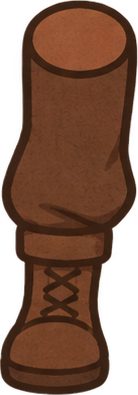
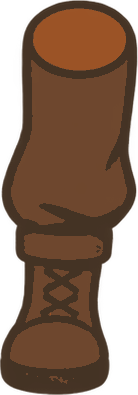
feat: add endless woodcut woodland, directional impacts and offline play

diff --git a/src/scene.ts b/src/scene.ts
@@ -1,6 +1,8 @@
 import Phaser from 'phaser';
-import {Combat,WORLD,type EnemyKind,type Effect} from './combat';
+import {Combat,type EnemyKind,type Effect} from './combat';
 
+import { Woodland } from './terrain';
+import { art } from './art';
 import {WitchRig} from './rig';
 import type {AudioDirector} from './audio';
 
@@ -10,25 +12,27 @@ type VisualEffect=Effect&{life:number;max:number};
 export interface SceneHooks {tick:(sim:Combat,fps:number,slow:number)=>void;upgrade:()=>void;end:()=>void;pause:()=>void;ready:()=>void;error:(message:string)=>void;audio:AudioDirector;lowQuality:()=>boolean}
 export class ForestScene extends Phaser.Scene {
   sim?:Combat;running=false;private hooks:SceneHooks;
-  private worldInk!:Phaser.GameObjects.Graphics;private fxInk!:Phaser.GameObjects.Graphics;
+  private woods!:Woodland;private worldInk!:Phaser.GameObjects.Graphics;private fxInk!:Phaser.GameObjects.Graphics;
   private rig?:WitchRig;private sprites=new Map<number,Phaser.GameObjects.Image>();private spritePool:Phaser.GameObjects.Image[]=[];
   private texts:Phaser.GameObjects.Text[]=[];private textCursor=0;private effects:VisualEffect[]=[];
   private keys?:Record<string,Phaser.Input.Keyboard.Key>;private accumulator=0;private uiClock=0;private slowFrames=0;private frames=0;private frameTime=0;private lastPaint=0;
   private stick?:{id:number;x:number;y:number};private movement={x:0,y:0};private stickInk!:Phaser.GameObjects.Graphics;
   constructor(hooks:SceneHooks){super('forest');this.hooks=hooks;}
   preload(){
-    this.load.image('arena','art/arena.webp');this.load.image('enemies','art/enemies-atlas-clean.png');
-    for(const name of ['head','body','left-upper','left-forearm','right-upper','right-forearm','left-leg','right-leg'])this.load.image(`hero-${name}`,`art/hero-${name}.png`);
+    this.load.image('ground',art('woodcut-ground.webp'));this.load.image('props',art('woodcut-props.png'));this.load.image('enemies',art('woodcut-enemies.png'));
+    for(const name of ['head','body','left-upper','left-forearm','right-upper','right-forearm','left-leg','right-leg'])this.load.image(`hero-${name}`,art(`hero-${name}.png`));
     this.load.on('loaderror',()=>this.hooks.error('部分美术资源加载失败，请检查网络后重新加载。'));
   }
   create(){
     const texture=this.textures.get('enemies'),source=texture.getSourceImage();
     const w=source.width,h=source.height;
     for(let i=0;i<8;i++){const x=Math.round((i%4)*w/4),y=Math.round(Math.floor(i/4)*h/2);texture.add(i,0,x,y,Math.round((i%4+1)*w/4)-x,Math.round((Math.floor(i/4)+1)*h/2)-y);}
-    this.add.image(0,0,'arena').setOrigin(0).setDisplaySize(WORLD.width,WORLD.height).setDepth(-20);
+    const props=this.textures.get('props'), sheet=props.getSourceImage();
+    for(let i=0;i<4;i++)props.add(i,0,i*sheet.width/4,0,sheet.width/4,sheet.height);
+    this.woods=new Woodland(this);
     this.worldInk=this.add.graphics().setDepth(-1);this.fxInk=this.add.graphics().setDepth(5000);this.stickInk=this.add.graphics().setScrollFactor(0).setDepth(10000);
     for(let i=0;i<28;i++)this.texts.push(this.add.text(0,0,'',{fontFamily:'Georgia, serif',fontSize:'17px',color:'#f4dfb4',stroke:'#15332d',strokeThickness:3}).setDepth(6000).setVisible(false));
-    this.cameras.main.setBounds(0,0,WORLD.width,WORLD.height);
+
     this.keys=this.input.keyboard?.addKeys('W,A,S,D,UP,DOWN,LEFT,RIGHT') as Record<string,Phaser.Input.Keyboard.Key>;
     this.input.keyboard?.on('keydown-ESC',()=>{if(this.running)this.hooks.pause()});
     this.input.on('pointerdown',(p:Phaser.Input.Pointer)=>{if(!this.running||p.x>this.scale.width*.48)return;this.stick={id:p.id,x:p.x,y:p.y};});
@@ -42,6 +46,7 @@ export class ForestScene extends Phaser.Scene {
     this.sim=sim;this.accumulator=0;this.uiClock=0;this.slowFrames=0;this.frames=0;this.frameTime=0;this.lastPaint=0;this.effects=[];
     this.sprites.forEach(s=>{s.setVisible(false);this.spritePool.push(s)});this.sprites.clear();this.texts.forEach(t=>t.setVisible(false));
     this.rig?.destroy();this.rig=new WitchRig(this,sim.character.id==='hazel'?0xffffff:sim.character.id==='fern'?0x9ed7ba:0xc8b5ed);this.running=true;
+    this.rig.root.setPosition(sim.player.x,sim.player.y);this.cameras.main.centerOn(sim.player.x,sim.player.y);
     this.cameras.main.startFollow(this.rig.root,true,.12,.12);this.cameras.main.setZoom(1);
     this.hooks.tick(sim,60,0);
   }
@@ -63,17 +68,19 @@ export class ForestScene extends Phaser.Scene {
       }
       this.rig.update(dt,this.sim.player.moving,this.sim.player.angle,this.sim.player.invincible>0,this.sim.seconds);
     }
-    this.rig.root.setPosition(this.sim.player.x,this.sim.player.y).setDepth(this.sim.player.y);
-    this.drawWorld();this.drawEffects(this.running?dt:0);this.drawStick();
+    this.rig.root.setPosition(this.sim.player.x,this.sim.player.y).setDepth(1000);
+    this.woods.follow(this.sim.player.x,this.sim.player.y,this.sim.seed);this.drawWorld();this.drawEffects(this.running?dt:0);this.drawStick();
     this.uiClock+=dt;if(this.uiClock>.12){this.uiClock=0;this.hooks.tick(this.sim,this.frameTime?1000*this.frames/this.frameTime:0,this.slowFrames);}
   }
   private captureEffects(){
     for(const effect of this.sim!.effects){
+      if(effect.kind==='cast'){this.rig?.cast(effect.tx!-effect.x);continue;}
+      if(effect.kind==='strike')this.hooks.audio.impact((effect.radius??0)>18);
       if(effect.kind==='hit'){
         if(!this.hooks.lowQuality()){const t=this.texts[this.textCursor++%this.texts.length];this.tweens.killTweensOf(t);t.setPosition(effect.x,effect.y-24).setText(effect.text??'').setVisible(true).setAlpha(1).setColor(effect.color===0xf19a8a?'#f8a799':'#f0ddb6');this.tweens.add({targets:t,y:t.y-25,alpha:0,duration:500,onComplete:()=>t.setVisible(false)});}
-        this.hooks.audio.play(effect.color===0xf19a8a?'hurt':'hit');
+        if(effect.color===0xf19a8a)this.hooks.audio.play('hurt');
       }else if(effect.kind==='heal')this.hooks.audio.play('heal');
-      if(effect.kind!=='hit'&&this.effects.length<100){const life=effect.kind==='chain'?.18:.5;this.effects.push({...effect,life,max:life});}
+      if(effect.kind!=='hit'&&this.effects.length<100){const life=effect.kind==='strike'?.14:effect.kind==='chain'?.18:.5;this.effects.push({...effect,life,max:life});}
     }
   }
   private drawWorld(){
@@ -87,9 +94,9 @@ export class ForestScene extends Phaser.Scene {
     for(const enemy of sim.enemies){
       living.add(enemy.id);let sprite=this.sprites.get(enemy.id);
       if(!sprite){sprite=this.spritePool.pop()??this.add.image(0,0,'enemies');sprite.setTexture('enemies',FRAME[enemy.kind]).setVisible(true);this.sprites.set(enemy.id,sprite);}
-      const size=enemy.radius*3.5;const bob=Math.sin(sim.seconds*(enemy.kind==='moth'?12:7)+enemy.id)*2;
-      sprite.setPosition(enemy.x,enemy.y-10+bob).setDisplaySize(size,size).setDepth(enemy.y).setFlipX(enemy.x>sim.player.x);
-      if(enemy.flash>0)sprite.setTintFill(0xffe8bf);else if(enemy.slow>0)sprite.setTint(0xa9d4f0);else sprite.clearTint();
+      const recoil=enemy.flash/.08;const angle=Math.atan2(enemy.y-sim.player.y,enemy.x-sim.player.x);const weight=enemy.kind==='boss'?2:7;const size=enemy.radius*3.5;const bob=Math.sin(sim.seconds*(enemy.kind==='moth'?12:7)+enemy.id)*2;
+      sprite.setPosition(enemy.x+Math.cos(angle)*recoil*weight,enemy.y-10+bob+Math.sin(angle)*recoil*weight).setDisplaySize(size*(1+recoil*.09),size*(1-recoil*.08)).setDepth(1000+(enemy.y-sim.player.y)).setFlipX(enemy.x>sim.player.x);
+      if(enemy.flash>.055)sprite.setTintFill(0xdcd6b0);else if(enemy.slow>0)sprite.setTint(0xa9d4f0);else sprite.clearTint();
       g.fillStyle(0x102e29,.35);g.fillEllipse(enemy.x,enemy.y+enemy.radius*.6,enemy.radius*1.7,enemy.radius*.65);
       if(enemy.kind==='boss'||enemy.kind==='brute'||enemy.kind==='crystal'){g.lineStyle(2,0xe59c7d,.65);g.strokeCircle(enemy.x,enemy.y,enemy.radius+5);}
       if(enemy.spore>0){g.fillStyle(0xd4e59c,.8);g.fillCircle(enemy.x+10,enemy.y-18,3);}
@@ -99,6 +106,13 @@ export class ForestScene extends Phaser.Scene {
     const p=sim.player;g.fillStyle(0x0b2926,.5);g.fillEllipse(p.x,p.y+21,35,13);g.lineStyle(1,0xe9d295,.24);g.strokeCircle(p.x,p.y,25);
     if(sim.build.leaf){const count=2+sim.build.leaf,r=(80+sim.build.leaf*7)*sim.reach;g.lineStyle(1,0xe4d998,.16);g.strokeCircle(p.x,p.y,r);for(let i=0;i<count;i++){const a=sim.seconds*2.6+i/count*Math.PI*2;const x=p.x+Math.cos(a)*r,y=p.y+Math.sin(a)*r;g.fillStyle(0xe4d998);g.fillEllipse(x,y,16,7);}}
   }
-  private drawEffects(dt:number){const g=this.fxInk;g.clear();for(const e of this.effects){e.life-=dt;const alpha=e.life/e.max;g.lineStyle(e.kind==='chain'?3:2,e.color??0xc8dcac,alpha*.8);if(e.kind==='chain'){const mx=(e.x+e.tx!)/2+12;g.beginPath();g.moveTo(e.x,e.y);g.lineTo(mx,(e.y+e.ty!)/2-10);g.lineTo(mx-15,(e.y+e.ty!)/2+10);g.lineTo(e.tx!,e.ty!);g.strokePath();}else{g.strokeCircle(e.x,e.y,(e.radius??40)*(1-alpha*.65));}}this.effects=this.effects.filter(e=>e.life>0);}
+  private drawEffects(dt:number){const g=this.fxInk;g.clear();for(const e of this.effects){e.life-=dt;const alpha=e.life/e.max;g.lineStyle(e.kind==='chain'?3:2,e.color??0xc8dcac,alpha*.8);if(e.kind==='strike'){
+        const travel=(1-alpha)*(e.radius??16);
+        for(let i=-1;i<=1;i++){
+          const a=(e.tx??0)+i*.72;
+          const dx=Math.cos(a),dy=Math.sin(a);
+          g.lineBetween(e.x+dx*(4+travel),e.y+dy*(4+travel),e.x+dx*(8+travel+alpha*6),e.y+dy*(8+travel+alpha*6));
+        }
+      }else if(e.kind==='chain'){const mx=(e.x+e.tx!)/2+12;g.beginPath();g.moveTo(e.x,e.y);g.lineTo(mx,(e.y+e.ty!)/2-10);g.lineTo(mx-15,(e.y+e.ty!)/2+10);g.lineTo(e.tx!,e.ty!);g.strokePath();}else{g.strokeCircle(e.x,e.y,(e.radius??40)*(1-alpha*.65));}}this.effects=this.effects.filter(e=>e.life>0);}
   private drawStick(){const g=this.stickInk;g.clear();if(!this.running)return;const x=this.stick?.x??110,y=this.stick?.y??this.scale.height-115;g.lineStyle(2,0xd9e6d1,.2);g.strokeCircle(x,y,58);g.fillStyle(0xd9e6d1,this.stick?.12:.035);g.fillCircle(x,y,56);g.fillStyle(0xe3eadb,this.stick?.3:.09);g.fillCircle(x+this.movement.x*42,y+this.movement.y*42,23);}
 }

diff --git a/src/combat.ts b/src/combat.ts
@@ -1,13 +1,13 @@
 import { CHARACTERS, ABILITIES, type CharacterId, type UpgradeId, type WeaponId } from './content';
-import { Random, clamp, xpNeeded, activeSynergies, type Build, type RunSummary } from './model';
+import { Random, xpNeeded, activeSynergies, type Build, type RunSummary } from './model';
 
-export const WORLD={width:1800,height:1200};
+
 export type EnemyKind='slime'|'moth'|'twig'|'spitter'|'beetle'|'brute'|'crystal'|'boss';
 export interface Enemy {id:number;kind:EnemyKind;x:number;y:number;hp:number;maxHp:number;radius:number;speed:number;attack:number;phase:number;clock:number;slow:number;burn:number;burnClock:number;spore:number;proc:number;flash:number}
 export interface Shot {id:number;x:number;y:number;vx:number;vy:number;life:number;radius:number;damage:number;weapon:WeaponId|'enemy';pierce:number;hit:Set<number>}
 export interface Zone {id:number;x:number;y:number;radius:number;life:number;tick:number;damage:number;kind:'spore'|'ember'|'warning';timer:number}
 export interface Drop {id:number;x:number;y:number;value:number;kind:'xp'|'heal'}
-export interface Effect {kind:'hit'|'chain'|'burst'|'frost'|'heal'|'level'|'synergy';x:number;y:number;tx?:number;ty?:number;radius?:number;color?:number;text?:string}
+export interface Effect {kind:'strike'|'cast'|'hit'|'chain'|'burst'|'frost'|'heal'|'level'|'synergy';x:number;y:number;tx?:number;ty?:number;radius?:number;color?:number;text?:string}
 export interface Controls {x:number;y:number}
 const distance2=(a:{x:number;y:number},b:{x:number;y:number})=>(a.x-b.x)**2+(a.y-b.y)**2;
 const ENEMY_STATS:Record<EnemyKind,[number,number,number,number]>={slime:[22,48,17,9],moth:[16,86,13,7],twig:[30,105,15,10],spitter:[36,40,19,9],beetle:[74,42,24,13],brute:[440,52,38,18],crystal:[300,65,30,16],boss:[6400,34,62,21]};
@@ -52,7 +52,7 @@ export class Combat {
     if(this.enemies.length>=150&&kind!=='boss')return;
     const angle=this.rng.between(0,Math.PI*2);const radius=this.seconds<15?this.rng.between(120,220):this.rng.between(330,500);
     const [baseHp,speed,size,attack]=ENEMY_STATS[kind];const scale=kind==='boss'?1:1+this.seconds/165;
-    const enemy:Enemy={id:this.nextId(),kind,x:clamp(x??this.player.x+Math.cos(angle)*radius,50,WORLD.width-50),y:clamp(y??this.player.y+Math.sin(angle)*radius,50,WORLD.height-50),hp:baseHp*scale,maxHp:baseHp*scale,radius:size,speed,attack,phase:0,clock:this.rng.between(1,3),slow:0,burn:0,burnClock:0,spore:0,proc:0,flash:0};
+    const enemy:Enemy={id:this.nextId(),kind,x:x??this.player.x+Math.cos(angle)*radius,y:y??this.player.y+Math.sin(angle)*radius,hp:baseHp*scale,maxHp:baseHp*scale,radius:size,speed,attack,phase:0,clock:this.rng.between(1,3),slow:0,burn:0,burnClock:0,spore:0,proc:0,flash:0};
     this.enemies.push(enemy);return enemy;
   }
   private effect(effect:Effect){if(this.effects.length<100)this.effects.push(effect);}
@@ -66,6 +66,10 @@ export class Combat {
     if(e.hp<=0)return;
     const applied=Math.min(e.hp,damage);e.hp-=damage;e.flash=0.08;
     this.damageByWeapon[weapon]=(this.damageByWeapon[weapon]??0)+applied;
+    if (!secondary && weapon !== 'spore') {
+      this.effect({kind:'strike',x:e.x,y:e.y,tx:Math.atan2(e.y-this.player.y,e.x-this.player.x),
+        radius:e.hp<=0?24:14,color:weapon==='ember'?0xffbb76:weapon==='spark'?0xb7e4d4:0xe5cb93});
+    }
     if(this.ticks%4===0||damage>35)this.effect({kind:'hit',x:e.x,y:e.y,text:String(Math.round(damage)),color:0xf4db9c});
     // Secondary hits cannot trigger other procs: bounded work, no recursive feedback loops.
     if(!secondary&&e.proc<=0){
@@ -88,6 +92,7 @@ export class Combat {
   }
   private cast(weapon:WeaponId,level:number) {
     const target=this.nearest(this.player.x,this.player.y,weapon==='comet'?480:weapon==='ember'?350:240);if(!target)return;
+    this.effect({kind:'cast',x:this.player.x,y:this.player.y,tx:target.x,ty:target.y});
     const scale=(1+(level-1)*0.34)*this.power;
     if(weapon==='spark'){
       let current=target;let previous:{x:number;y:number}=this.player;const visited=new Set<number>();
@@ -115,7 +120,7 @@ export class Combat {
     dt=Math.min(dt,0.05);this.seconds+=dt;this.ticks++;this.effects=[];
     const p=this.player;p.invincible=Math.max(0,p.invincible-dt);
     const length=Math.hypot(control.x,control.y);p.moving=length>0.05;
-    if(p.moving){const norm=Math.max(1,length);const speed=this.character.speed*(1+(this.build.stride??0)*0.08);p.x=clamp(p.x+control.x/norm*speed*dt,35,WORLD.width-35);p.y=clamp(p.y+control.y/norm*speed*dt,35,WORLD.height-35);p.angle=Math.atan2(control.y,control.x);}
+    if(p.moving){const norm=Math.max(1,length);const speed=this.character.speed*(1+(this.build.stride??0)*0.08);p.x+=control.x/norm*speed*dt;p.y+=control.y/norm*speed*dt;p.angle=Math.atan2(control.y,control.x);}
     if(this.seconds>=480){this.ended=true;return;}
     if(this.seconds>=360&&!this.bossSpawned){this.bossSpawned=true;this.spawn('boss');this.effect({kind:'level',x:p.x,y:p.y,text:'古树守卫苏醒了'});}
     this.spawnClock-=dt;this.eliteClock-=dt;
@@ -124,11 +129,17 @@ export class Combat {
     for(const e of this.enemies){
       if(e.hp<=0)continue;e.clock-=dt;e.slow=Math.max(0,e.slow-dt);e.proc=Math.max(0,e.proc-dt);e.flash=Math.max(0,e.flash-dt);e.spore=Math.max(0,e.spore-dt);
       if(e.burn>0){e.burn-=dt;e.burnClock-=dt;if(e.burnClock<=0){e.burnClock=0.5;this.hit(e,5*this.power*(1+(this.build.ember??1)*0.2),'ember',true);}}
+      if (e.kind==='boss' && distance2(e,p)>1150**2) {
+        // Preserve health and phase when the runner leaves the encounter behind.
+        const ahead=p.angle;
+        e.x=p.x+Math.cos(ahead)*640;
+        e.y=p.y+Math.sin(ahead)*640;
+      }
       const dx=p.x-e.x,dy=p.y-e.y,dist=Math.hypot(dx,dy)||1;let speed=e.speed*(e.slow>0?(e.kind==='boss'?0.8:0.52):1);
       if(e.kind==='twig'&&e.clock<0.6)speed*=1.8;
       if(e.kind==='spitter'&&dist<280)speed=0;
       if(e.kind==='boss'&&e.hp<e.maxHp*.5){speed*=1.5;e.phase=1;}
-      e.x=clamp(e.x+dx/dist*speed*dt,25,WORLD.width-25);e.y=clamp(e.y+dy/dist*speed*dt,25,WORLD.height-25);
+      e.x+=dx/dist*speed*dt;e.y+=dy/dist*speed*dt;
       if(dist<e.radius+15)this.hurt(e.attack);
       if(e.clock<=0){
         e.clock=e.kind==='boss'?(e.phase?2.8:4):e.kind==='twig'?3.5:3;
@@ -166,7 +177,7 @@ export class Combat {
         if(shot.pierce<=0){shot.life=0;break;}
       }
     }
-    this.shots=this.shots.filter(s=>s.life>0&&s.x>-30&&s.x<WORLD.width+30&&s.y>-30&&s.y<WORLD.height+30);
+    this.shots=this.shots.filter(s=>s.life>0);
     for(const e of this.enemies)if(e.hp<=0){
       this.kills++;const elite=['boss','brute','crystal'].includes(e.kind);const value=elite?24:3;
       // Merge overflow XP rather than dropping rewards when a player circles the arena.
@@ -174,10 +185,10 @@ export class Combat {
       if(this.drops.length<320&&(elite||this.rng.next()<0.025))this.drops.push({id:this.nextId(),x:e.x+12,y:e.y,value:elite?22:12,kind:'heal'});
       if(e.kind==='boss'){this.won=true;this.ended=true;}
     }
-    this.enemies=this.enemies.filter(e=>e.hp>0);
+    this.enemies=this.enemies.filter(e=>e.hp>0 && (e.kind==='boss' || distance2(e,p)<1400**2));
     const pickup=(98+(this.build.reach??0)*12)*(this.character.id==='hazel'?1.2:1);
     this.drops=this.drops.filter(d=>{
-      const dist=Math.hypot(d.x-p.x,d.y-p.y);if(dist<pickup){const step=320*dt;d.x+=(p.x-d.x)/Math.max(1,dist)*Math.min(step,dist);d.y+=(p.y-d.y)/Math.max(1,dist)*Math.min(step,dist);}
+      const dist=Math.hypot(d.x-p.x,d.y-p.y);if(dist>1600)return false;if(dist<pickup){const step=320*dt;d.x+=(p.x-d.x)/Math.max(1,dist)*Math.min(step,dist);d.y+=(p.y-d.y)/Math.max(1,dist)*Math.min(step,dist);}
       if(dist>22)return true;
       if(d.kind==='heal'){p.hp=Math.min(p.maxHp,p.hp+d.value);this.effect({kind:'heal',x:p.x,y:p.y,text:`+${d.value}`});}
       else this.xp+=d.value*(1+(this.build.fortune??0)*.1);return false;

diff --git a/tests/combat.test.ts b/tests/combat.test.ts
@@ -1,7 +1,18 @@
 import {describe,it,expect} from 'vitest';
-import {Combat,WORLD} from '../src/combat';
+import {Combat} from '../src/combat';
 describe('battle simulation',()=>{
- it('normalizes diagonal movement and bounds the player',()=>{const a=new Combat('hazel',1),b=new Combat('hazel',1);a.step(1/60,{x:1,y:0});b.step(1/60,{x:1,y:1});expect(Math.hypot(a.player.x-900,a.player.y-600)).toBeCloseTo(Math.hypot(b.player.x-900,b.player.y-600));for(let i=0;i<500;i++)a.step(1/60,{x:1,y:1});expect(a.player.x).toBeLessThanOrEqual(WORLD.width-35);});
+ it('normalizes diagonal movement and crosses the former world edges',()=>{const a=new Combat('hazel',1),b=new Combat('hazel',1);a.step(1/60,{x:1,y:0});b.step(1/60,{x:1,y:1});expect(Math.hypot(a.player.x-900,a.player.y-600)).toBeCloseTo(Math.hypot(b.player.x-900,b.player.y-600));a.player.x=-5000;a.player.y=9000;a.step(1/60,{x:-1,y:1});expect(a.player.x).toBeLessThan(-5000);expect(a.player.y).toBeGreaterThan(9000);const enemy=a.spawn('slime')!;expect(Math.hypot(enemy.x-a.player.x,enemy.y-a.player.y)).toBeLessThan(501);});
+ it('keeps projectiles, pursuit and drops working in negative world space',()=>{
+   const battle=new Combat('ash',15);
+   battle.player.x=-20000; battle.player.y=-30000;
+   const target=battle.spawn('beetle',battle.player.x+130,battle.player.y)!;
+   for(let i=0;i<45;i++)battle.step(1/60,{x:0,y:0});
+   expect(target.hp).toBeLessThan(target.maxHp);
+   expect(target.x).toBeLessThan(-19870);
+   battle.spawn('slime',10,10);
+   battle.step(1/60,{x:0,y:0});
+   expect(battle.enemies.every(e=>e.x<0)).toBe(true);
+ });
  it('does not advance while an upgrade is pending',()=>{const b=new Combat('hazel',3);b.pendingLevels=1;b.step(1/60,{x:1,y:0});expect(b.seconds).toBe(0);b.resolveLevel('leaf');b.step(1/60,{x:0,y:0});expect(b.seconds).toBeGreaterThan(0);expect(b.build.leaf).toBe(1);});
  it('spawns a boss once and expires a run',()=>{const b=new Combat('hazel',1);b.seconds=359.99;b.step(.02,{x:0,y:0});expect(b.enemies.filter(e=>e.kind==='boss')).toHaveLength(1);b.seconds=479.99;b.step(.02,{x:0,y:0});expect(b.ended).toBe(true);expect(b.won).toBe(false);});
  it('keeps dense multi-skill combat bounded and finite',()=>{const b=new Combat('hazel',43);b.build={spark:5,spore:5,leaf:5,ember:5,haste:4,power:4};b.player.hp=b.player.maxHp=100000;for(let i=0;i<120;i++)b.spawn('slime',820+i%12*14,500+Math.floor(i/12)*14);for(let t=0;t<3600;t++){b.pendingLevels=0;b.step(1/60,{x:Math.cos(t/100),y:Math.sin(t/100)});}expect(b.kills).toBeGreaterThan(50);expect(b.shots.length).toBeLessThanOrEqual(280);expect(b.zones.length).toBeLessThanOrEqual(45);expect(Number.isFinite(b.player.hp)).toBe(true);expect(Object.values(b.damageByWeapon).every(Number.isFinite)).toBe(true);});

diff --git a/src/rig.ts b/src/rig.ts
@@ -8,7 +8,7 @@ export class WitchRig {
   private leftArm:Phaser.GameObjects.Container;private rightArm:Phaser.GameObjects.Container;
   private forearm:Phaser.GameObjects.Container;
   private leftLeg:Phaser.GameObjects.Container;private rightLeg:Phaser.GameObjects.Container;
-  private clock=0;private facing=1;
+  private casting=0;private clock=0;private facing=1;
   constructor(scene:Phaser.Scene, palette:number){
     this.root=scene.add.container(0,0);
     const bone=(parent:Phaser.GameObjects.Container,x:number,y:number)=>{const b=scene.add.container(x,y);parent.add(b);return b;};
@@ -22,14 +22,15 @@ export class WitchRig {
     this.forearm=bone(this.rightArm,0,11);attach(this.forearm,'hero-right-forearm',26,21,.16,.17);
     this.head=bone(this.body,0,0);attach(this.head,'hero-head',48,43,.82);
   }
+  cast(direction:number){this.facing=direction<0?-1:1;this.casting=1;}
   update(dt:number,moving:boolean,angle:number,invincible:boolean,seconds:number){
-    this.clock+=dt*(moving?10:2.2);
-    if(moving&&Math.abs(Math.cos(angle))>.15)this.facing=Math.cos(angle)<0?-1:1;
+    this.casting=Math.max(0,this.casting-dt*5);this.clock+=dt*(moving?10:2.2);
+    if(this.casting===0&&moving&&Math.abs(Math.cos(angle))>.15)this.facing=Math.cos(angle)<0?-1:1;
     this.root.scaleX=this.facing;this.root.alpha=invincible?.5+.5*Math.abs(Math.sin(seconds*35)):1;
     const stride=moving?Math.sin(this.clock)*.42:Math.sin(this.clock)*.025;
     this.leftLeg.rotation=stride;this.rightLeg.rotation=-stride;this.body.y=-19+(moving?Math.abs(Math.sin(this.clock))*2:Math.sin(this.clock)*.6);
     this.body.rotation=moving?Math.cos(this.clock)*.025:0;this.head.rotation=Math.sin(this.clock*.5)*.025;
-    this.leftArm.rotation=-stride*.6+.08;this.rightArm.rotation=-.35+Math.sin(seconds*5)*.16;this.forearm.rotation=-.35+Math.sin(seconds*5+.5)*.12;
+    this.leftArm.rotation=-stride*.6+.08;this.rightArm.rotation=-.35+Math.sin(seconds*5)*.16;this.forearm.rotation=-.35+Math.sin(seconds*5+.5)*.12-this.casting*.75;
   }
   fall(){this.root.scene.tweens.add({targets:this.root,angle:-70,alpha:.5,duration:350});}
   destroy(){this.root.destroy(true);}

diff --git a/src/terrain.ts b/src/terrain.ts
@@ -1,0 +1,39 @@
+import Phaser from 'phaser';
+
+// Coordinates, rather than discovery order, determine each patch of undergrowth.
+function hash(x: number, y: number, seed: number) {
+  let bits = Math.imul(x, 0x27d4eb2d) ^ Math.imul(y, 0x165667b1) ^ seed;
+  bits = Math.imul(bits ^ (bits >>> 16), 0x85ebca6b);
+  return (bits ^ (bits >>> 13)) >>> 0;
+}
+
+export class Woodland {
+  private readonly floor: Phaser.GameObjects.TileSprite;
+  private readonly props: Phaser.GameObjects.Image[];
+  private lastCell = '';
+  constructor(scene: Phaser.Scene) {
+    this.floor = scene.add.tileSprite(0, 0, 1152, 768, 'ground').setOrigin(0).setDepth(-200000);
+    // 7 x 5 cells cover the landscape viewport plus a margin on every side.
+    this.props = Array.from({length:35}, () => scene.add.image(0, 0, 'props').setDepth(-199999));
+  }
+
+  follow(x: number, y: number, seed: number) {
+    const left = Math.floor(x - 576), top = Math.floor(y - 384);
+    this.floor.setPosition(left, top).setTilePosition(left, top);
+    const cx = Math.floor(x / 200), cy = Math.floor(y / 200);
+    const cell = [cx,cy,seed].join(',');
+    if (cell === this.lastCell) return;
+    this.lastCell = cell;
+    let index = 0;
+    for (let j = cy-2; j <= cy+2; j++) {
+      for (let i = cx-3; i <= cx+3; i++) {
+        const h = hash(i,j,seed), prop = this.props[index++];
+        const frame = h % 4;
+        const size = [48,36,60,28][frame] * (.85 + ((h >>> 24) % 40) / 100);
+        prop.setFrame(frame).setDisplaySize(size,size).setFlipX(!!(h & 32));
+        prop.setPosition(i*200 + 32 + ((h>>>4)%136), j*200 + 32 + ((h>>>12)%136));
+        prop.setVisible((h>>>20)%5 !== 0);
+      }
+    }
+  }
+}

diff --git a/src/audio.ts b/src/audio.ts
@@ -15,6 +15,13 @@ export class AudioDirector {
     osc.connect(gain);gain.connect(this.master);osc.start(now);osc.stop(now+duration+.02);osc.onended=()=>{osc.disconnect();gain.disconnect()};
   }
   private tick(){if(this.paused||this.music<=0)return;const melody=this.combat?[0,7,12,10,7,3,5,7,0,7,15,12,10,7,5,3]:[0,7,12,7,3,10,15,10,5,12,17,12,3,10,7,3];const note=melody[this.step%melody.length];this.tone(174.61*2**(note/12),.85,this.music*.09,'sine');if(this.step%4===0)this.tone(87.3,.95,this.music*.08,'triangle');this.step++;}
+  impact(heavy:boolean){
+    const now=performance.now();
+    if(now-this.lastHit<(heavy?70:110))return;
+    this.lastHit=now;
+    this.tone(heavy?180:390,heavy?.105:.048,this.sound*(heavy?.16:.09),'triangle',heavy?58:130);
+    if(heavy)this.tone(800,.032,this.sound*.045,'square',240);
+  }
   play(kind:'hit'|'hurt'|'level'|'click'|'win'|'lose'|'heal'){
     if(kind==='hit'){if(performance.now()-this.lastHit<110)return;this.lastHit=performance.now();this.tone(340,.075,this.sound*.06,'triangle',140);}
     else if(kind==='hurt')this.tone(140,.18,this.sound*.17,'triangle',65);

diff --git a/src/art.ts b/src/art.ts
@@ -1,0 +1,5 @@
+// The standalone build provides the same assets locally as blob URLs.
+declare global { interface Window { forestArt?: Record<string,string> } }
+export function art(name: string) {
+  return window.forestArt?.[name] ?? 'art/' + name;
+}

diff --git a/docs/reviews.md b/docs/reviews.md
@@ -22,3 +22,9 @@
 - 20 项自动测试通过，类型检查和生产构建通过。实际桌面浏览器验证了首次加载、角色锁定、生命变化、计时、暂停、主动结算与重开入口。
 - 音量、存档导出和导入以及成就均可在菜单操作。精简特效减少伤害数字绘制。性能显示统计本局运行时的平均帧率及大于 25 毫秒的帧数。
 - 真机项目仍待测：iPhone 17 Pro Safari 连续三局、长时间发热、切后台和恢复、手指松开、横竖屏切换。目标战斗平均至少 58 FPS；安卓暂无实机记录。
+
+## v1.1 无限地图与离线试玩
+
+改为无边界世界坐标，镜头跟随角色；只保留屏幕附近的草地与 35 个装饰槽位，重新经过同一地点可看到相同布置。远离的普通敌人和掉落回收；首领保持生命与阶段并重新接近玩家。更新木刻套色美术，主角骨架原有部件尺寸和接点保留。命中增加法杖动作、视觉后仰、短划线及区分力度的音色。
+
+21 项测试及生产构建通过。包含旧边界外移动、负坐标命中、敌人回收、升级存档及种子对局测试。Edge 在断网状态打开单文件 HTML，实际跑通选角、移动、战斗、暂停、结算；零 HTTP 请求。iPhone 真机帧率与跨设备 Wi-Fi 可达性仍待设备验证。

diff --git a/README.md b/README.md
@@ -26,3 +26,11 @@ npm run build
 ## 资源与许可
 
 自制代码与游戏资源目前未授予开源使用许可。公开仓库用于交付与审阅，并不自动授权复制发行。第三方依赖沿用其各自许可；AI 辅助资源会记录生成方式与提示词。
+
+## 离线与手机试玩
+
+运行 npm run build 后执行 node offline.mjs。用 Edge 或 Chrome 双击打开生成的 Forest-Nightwatch.html 即可离线游玩。这个版本内嵌脚本、样式与运行素材。浏览器存档受打开方式和浏览器配置影响，换入口前可以在设置中导出。
+
+安装 Node.js 的 Windows 电脑可双击「手机同网试玩.cmd」。保持窗口开启，在同一 Wi-Fi 的手机 Safari 输入窗口列出的 WLAN 完整链接。每次启动会生成新地址，关闭窗口即停止服务。访客网络、设备间隔离及防火墙可能阻止同网访问。
+
+v1.1 使用无缝草地、按世界坐标布置的装饰和无边界战斗。图块实现参考 Phaser 官方 TileSprite 指南：https://phaser.io/oss/docs/phaser/concepts/gameobjects/tile-sprite
